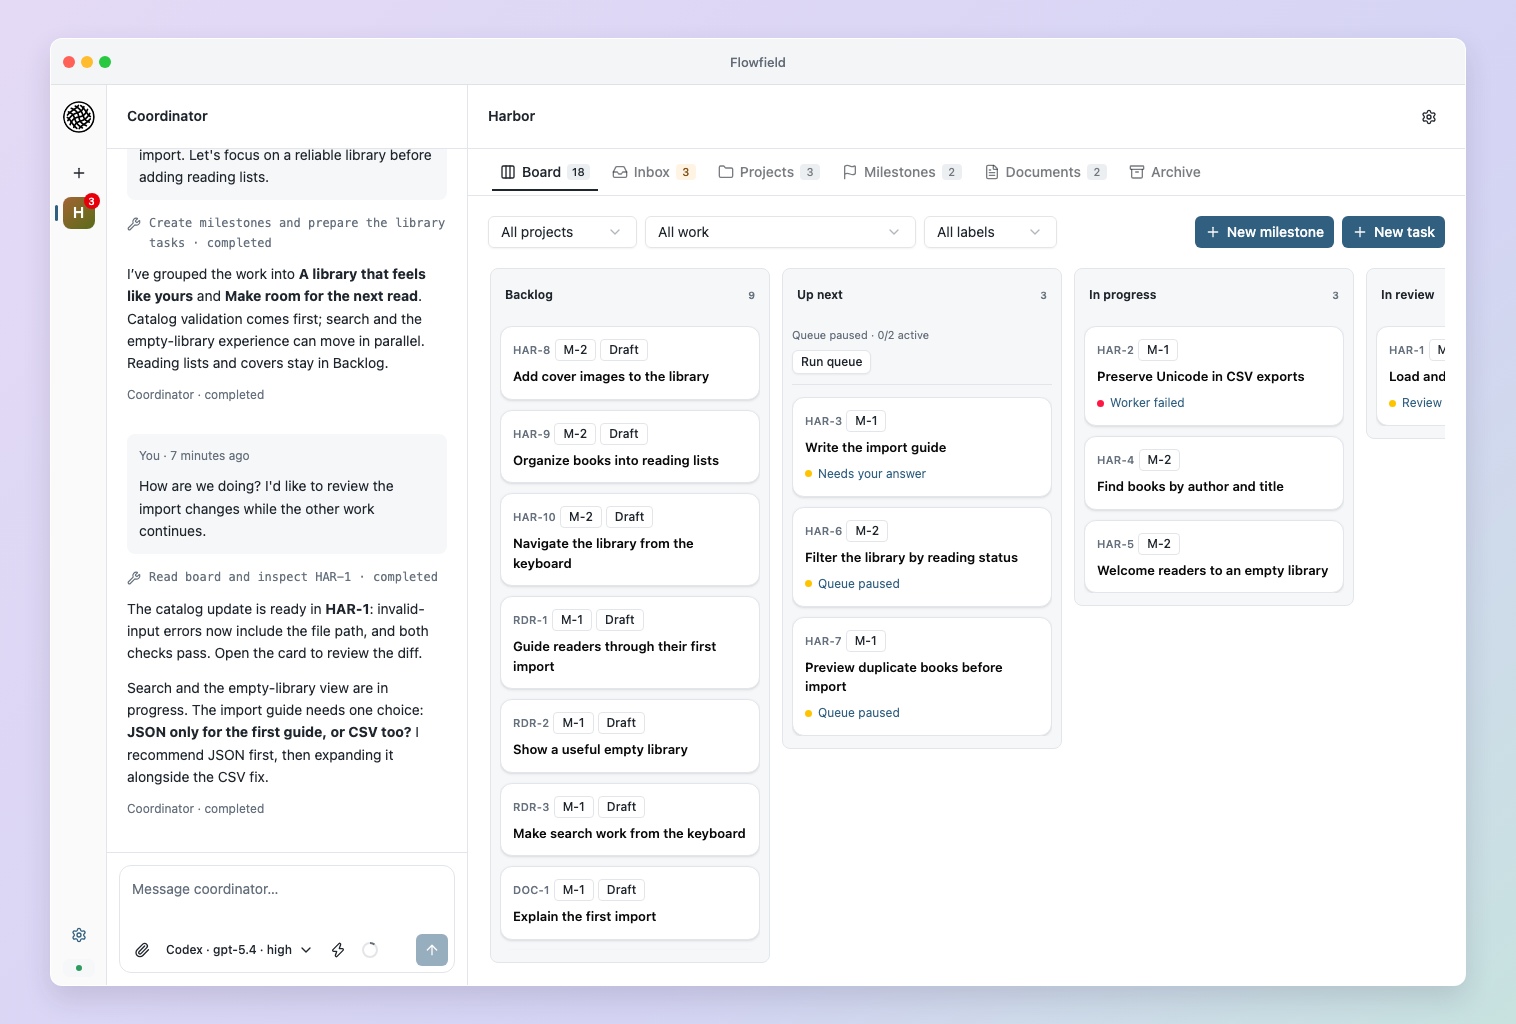
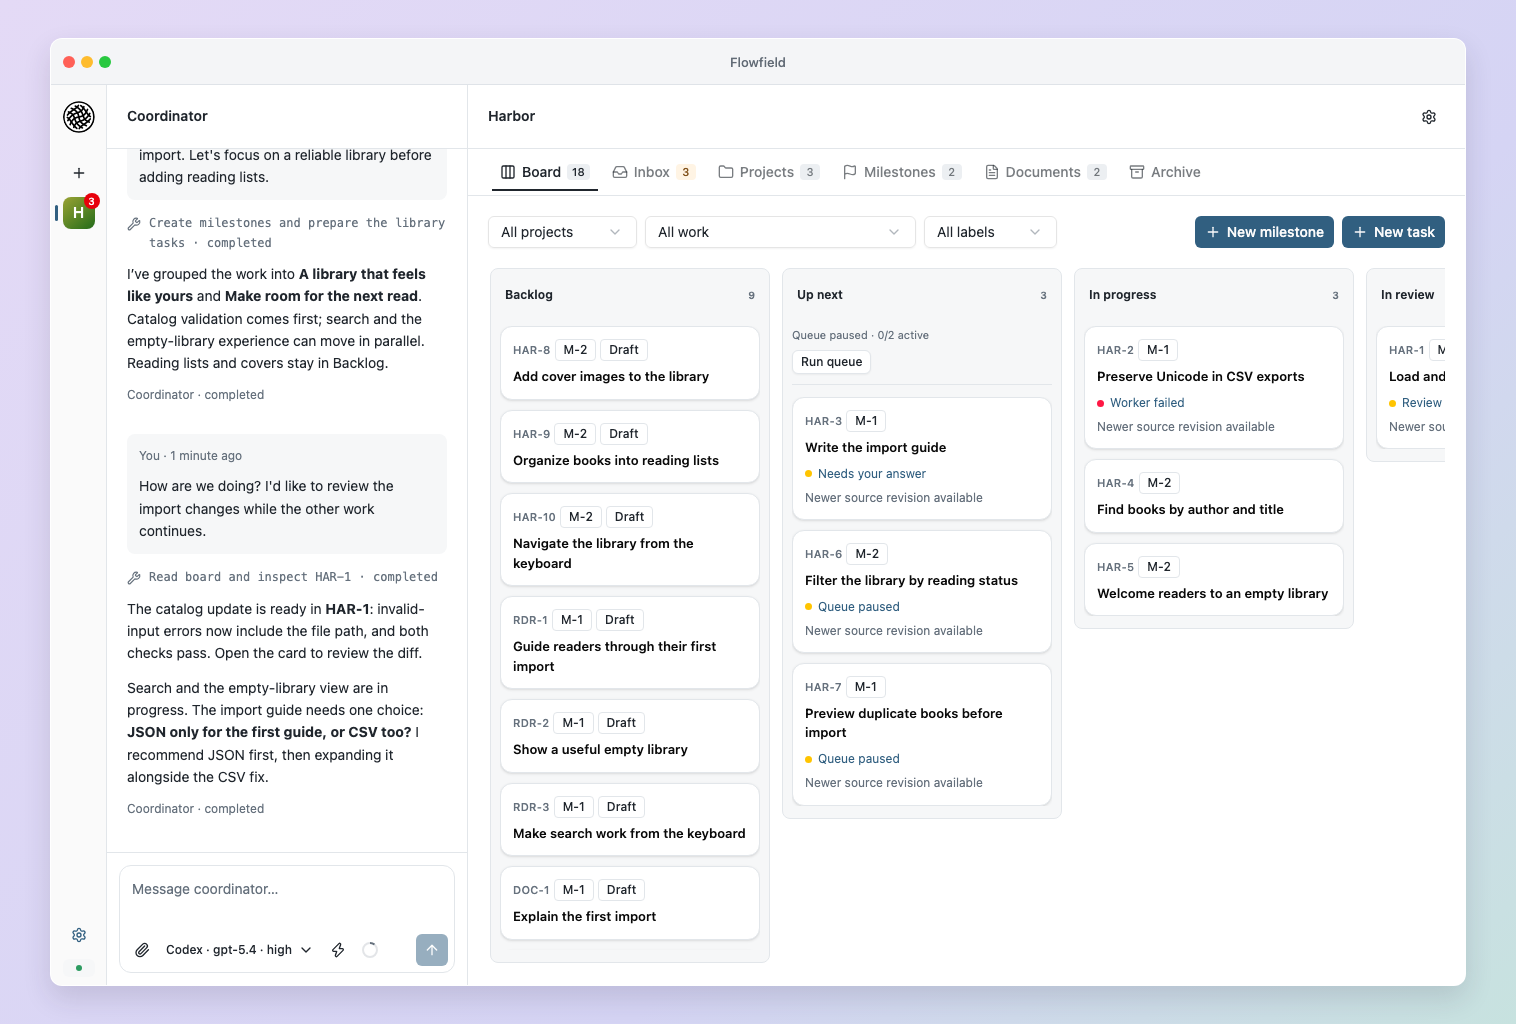
Fix workspace dependency status and mobile coordinator navigation

diff --git a/web/e2e/coordinator.spec.ts b/web/e2e/coordinator.spec.ts
@@ -1364,3 +1364,47 @@ test("abridged coordinator activity opens revision-bound saved reply pages", asy
     path: testInfo.outputPath("coordinator-full-reply.png"),
   });
 });
+
+test("project URL canonicalization preserves the selected mobile coordinator", async ({
+  page,
+  request,
+}) => {
+  await page.setViewportSize({ width: 390, height: 844 });
+  const directory = join(state, "chat-alias");
+  mkdirSync(directory, { recursive: true });
+  await fixtureProject(request, {
+    data: { path: directory, name: "Chat Alias", task_prefix: "CAL" },
+  });
+  const workspace = await projectWorkspace(request, "chat-alias");
+  let release!: () => void;
+  const board = new Promise<void>((resolve) => {
+    release = resolve;
+  });
+  await page.route(
+    `**/api/workspaces/${workspace}/view/board*`,
+    async (route) => {
+      await board;
+      await route.continue();
+    },
+  );
+  await page.goto("/projects/chat-alias");
+  await page.getByRole("tab", { name: "Coordinator", exact: true }).click();
+  await expect(
+    page.getByRole("tab", { name: "Coordinator", exact: true }),
+  ).toHaveAttribute("aria-selected", "true");
+  release();
+  await expect(page).toHaveURL(
+    new RegExp(`/workspaces/${workspace}\\?project=chat-alias$`),
+  );
+  await expect(
+    page.getByRole("tab", { name: "Coordinator", exact: true }),
+  ).toHaveAttribute("aria-selected", "true");
+  await page
+    .getByRole("textbox", { name: "Message coordinator", exact: true })
+    .fill("Keep this draft");
+  await page.getByRole("tab", { name: "Work", exact: true }).click();
+  await page.getByRole("tab", { name: "Coordinator", exact: true }).click();
+  await expect(
+    page.getByRole("textbox", { name: "Message coordinator", exact: true }),
+  ).toHaveValue("Keep this draft");
+});

diff --git a/web/e2e/workspace-dependencies.spec.ts b/web/e2e/workspace-dependencies.spec.ts
@@ -6,7 +6,7 @@ import { test, state, fixtureStages } from "./support";
 test("cross-project prerequisites link to their owner and refresh dependent views", async ({
   page,
   request,
-}) => {
+}, testInfo) => {
   const workspace = await (
     await request.post("/api/workspaces", {
       data: { name: "Shared dependencies" },
@@ -59,7 +59,14 @@ test("cross-project prerequisites link to their owner and refresh dependent view
   ).toBeVisible();
   await page.goBack();
   await expect(page).toHaveURL(/\/projects\/dependency-site\/tasks\/DPS-1$/);
-  await expect(task.getByText("Blocked by", { exact: false })).toBeVisible();
+  await expect(task.getByText("Waiting on", { exact: false })).toBeVisible();
+  await page.screenshot({
+    path: testInfo.outputPath("dependency-desktop.png"),
+  });
+  await page.setViewportSize({ width: 390, height: 844 });
+  await page.emulateMedia({ colorScheme: "dark" });
+  await expect(task.getByText("Waiting on", { exact: false })).toBeVisible();
+  await page.screenshot({ path: testInfo.outputPath("dependency-mobile.png") });
   const refreshed = page.waitForResponse(
     (response) =>
       response.request().method() === "GET" &&
@@ -74,5 +81,5 @@ test("cross-project prerequisites link to their owner and refresh dependent view
     ).ok(),
   ).toBeTruthy();
   await refreshed;
-  await expect(task.getByText("Blocked by", { exact: false })).toHaveCount(0);
+  await expect(task.getByText("Waiting on", { exact: false })).toHaveCount(0);
 });

diff --git a/web/src/App.tsx b/web/src/App.tsx
@@ -10,7 +10,7 @@ import { WorkspaceList, NewWorkspace } from "./WorkspaceEntry";
 import { Documents } from "./Documents";
 import { ProjectList } from "./ProjectList";
 import { SetupInstructions } from "./SetupInstructions";
-import { taskTab } from "./navigation";
+import { canonicalHref, taskTab } from "./navigation";
 import type { AdjacentContext, AdjacentSnapshot } from "./AdjacentView";
 import { CoordinatorChat, type ChatDrafts } from "./CoordinatorChat";
 import {
@@ -139,6 +139,14 @@ export function App() {
   );
   const workspaceId =
     params.workspaceId ?? knownOwners[projectId ?? ""] ?? projectWorkspace?.id;
+  // Resolving a project alias changes the URL, not the work the human opened.
+  // Use its known workspace before board loading registers all member projects.
+  const workLocation = canonicalHref(
+    pathname,
+    projectId && workspaceId
+      ? { ...knownOwners, [projectId]: workspaceId }
+      : knownOwners,
+  ).split("?")[0];
   const wrongWorkspace = !!(
     params.workspaceId &&
     projectWorkspace &&
@@ -250,7 +258,7 @@ export function App() {
       <AnnouncementProvider navigate={changeLocation}>
         <Toaster theme={appearance.theme} />
         <WorkspaceFrame
-          workLocation={pathname}
+          workLocation={workLocation}
           workspaces={workspaces.map((workspace) => ({
             id: workspace.id,
             name: workspace.name,

diff --git a/tests/test_workspace_dependencies.py b/tests/test_workspace_dependencies.py
@@ -36,6 +36,22 @@ def complete(store, project, identity):
     )
 
 
+@pytest.mark.parametrize("destination", ["core", "site"])
+def test_waiting_state_matches_workspace_prerequisites(tmp_path, destination):
+    store = shared(tmp_path)
+    first = store.create_task("core", task_request(title="First"))
+    second = store.create_task(destination, task_request(title="Then", dependencies=[first.key]))
+    for task in (
+        BrowserReads(store).task(destination, second.id),
+        next(t for t in BrowserReads(store).board(destination).tasks if t.id == second.id),
+    ):
+        assert task.state.label == "Waiting on prerequisites"
+        assert task.state.reason == "prerequisites"
+        assert task.blocked_by[0].key == first.key
+    complete(store, "core", first.id)
+    assert BrowserReads(store).task(destination, second.id).state.reason is None
+
+
 def test_same_local_ids_scope_cycles_pagination_and_downstream_reconciliation(tmp_path):
     store = shared(tmp_path)
     core = store.create_task("core", task_request(id="same", title="API", body="API contract"))

diff --git a/src/flowfield/coordinator.py b/src/flowfield/coordinator.py
@@ -102,7 +102,11 @@ whole specifications. Use concrete examples when they clarify tricky product beh
 manufacture an exhaustive implementation tutorial. Milestones group
 tasks; only tasks have dependencies. Respect repository-owned instructions and decisions;
 Flowfield does not replace the project’s architecture/design/convention records.
-Prepare assignments with create_task/edit_task when intent is clear. Prepared is not started.
+Prepare upcoming Backlog/Up next assignments with create_task/edit_task when intent is clear.
+For changed intent on work already in progress or review, once no worker owns the task,
+edit_task without preparation, include
+reviewed stages, then reconcile_task before requesting the follow-up through get_task_input and
+reply_to_task. An enabled queue can start that follow-up immediately. Prepared is not started.
 Prioritizing into Up next
 can make work eligible for an enabled queue: do this only when the human authorized scheduling.
 Use apply_answer to reconcile already saved coordinator-owned answers; managed worker answers

diff --git a/src/flowfield/mcp.py b/src/flowfield/mcp.py
@@ -742,7 +742,10 @@ def create_mcp(
 
         Include preparation for actionable upcoming work, using completion, to save and prepare
         atomically. Failure leaves prior intent
-        unchanged. Preserves priority/queue; active work requires reconciliation instead.
+        unchanged. Preparation applies only to Backlog/Up next. For work in progress or review,
+        once no worker owns the task, omit preparation, include reviewed stages, then reconcile_task
+        before requesting feedback continuation through get_task_input/reply_to_task.
+        Preserves priority/queue.
         Cross-project dependencies use task keys (for example API-1), not bare task IDs.
         Read get_task_stages and include stages (expected_revision, stages, reason) here
         to reconcile the plan with the new agreement atomically while idle.

diff --git a/src/flowfield/work_state.py b/src/flowfield/work_state.py
@@ -178,9 +178,16 @@ def task_state(
         return WorkState(label="Archived")
     if task["status"] == "done":
         return WorkState(label="Done", tone="complete")
+    # Schema 62 stores service-unique task keys, including foreign member projects.
+    # Older supported states still use project-local IDs during migration checks.
+    dependency_join = (
+        "d.key=p.value"
+        if workspace.schema_version >= 62
+        else "d.project_id=t.project_id AND d.id=p.value"
+    )
     if db.execute(
         "SELECT 1 FROM tasks t,json_each(t.data,'$.dependencies') p "
-        "JOIN tasks d ON d.project_id=t.project_id AND d.id=p.value "
+        f"JOIN tasks d ON {dependency_join} "
         "WHERE t.project_id=? AND t.id=? AND json_extract(d.data,'$.status')!='done'",
         (project, task_id),
     ).fetchone():

diff --git a/src/flowfield/templates/flowfield-coordinator/SKILL.md b/src/flowfield/templates/flowfield-coordinator/SKILL.md
@@ -131,10 +131,10 @@ Repository instructions govern development conventions and permission to commit/
   history out of worker assignments. Highlight critical constraints without copying specifications;
   use examples where they clarify product behavior, not as a mandatory implementation tutorial.
 - Read complete intent, prerequisites, task evidence and applicable repository guidance.
-  For actionable work, use create_task/edit_task with preparation so the description and assignment save together.
+  For upcoming Backlog/Up next work, use create_task/edit_task with preparation so the description and assignment save together.
   Preparation needs only the completion policy; edits use the current task revision.
   A failed prepared write saves neither change: reread and reconcile.
-- Prepare an existing task with `edit_task` and `preparation`, even when no definition
+- Prepare an existing Backlog/Up next task with `edit_task` and `preparation`, even when no definition
   fields change. “Prepared” does not mean scheduled or started. Do this routinely;
   do not ask the human to request preparation.
   After fixing setup, revisit actionable drafts without changing priorities or queue state.
@@ -189,8 +189,9 @@ Repository instructions govern development conventions and permission to commit/
 - Follow the result's contextual recovery action. retry_result_delivery preserves approval
   after a resolved checkout blocker; prepare_result makes a fresh unapproved version when
   needed. Corrections remain bounded and require fresh approval.
-- Keep feedback/corrections on the same task. If feedback changes intent, edit and reconcile
-  before requesting the follow-up: an enabled queue can launch it immediately. Complete the
+- Keep feedback/corrections on the same task. For changed intent on work in progress or review, once no worker owns the task,
+  use `edit_task` without preparation, include reviewed stages, then `reconcile_task` before
+  requesting the follow-up with `get_task_input` and `reply_to_task`: an enabled queue can launch it immediately. Complete the
   agreed outcome, not just an attempt. Partial work stays unfinished or has explicitly revised
   scope. Complete report-only findings need no code approval and do not endorse recommendations;
   even a Markdown repository file is a code-changing result, regardless of its labels.

diff --git a/src/flowfield/templates/mcp-instructions.md b/src/flowfield/templates/mcp-instructions.md
@@ -9,11 +9,16 @@ get_project_guidance previews the optional standalone coordinator playbook witho
 Batch at most eight independent reads and serialize mutations. On tool_busy, wait for
 in-flight calls to finish before retrying the rejected call.
 
-Select relevant project worker_documents defaults and task documents references. Preparation
-pins exact revisions; workers page those sources within their frozen assignment. Main guidance
-is a required default for every project. Reprepare with reviewed stages or reconcile deliberately to
-adopt later revisions; document edits alone leave existing assignments unchanged.
-Capture agreed work with create_task/edit_task. Preparation is not scheduling; respect
+Select relevant project worker_documents and task documents. Purpose is required (read fully)
+or reference (optional). Main guidance stays required. Preparation pins revisions and purposes;
+workers page frozen sources. After edits, page get_document_impact and assess affected work.
+Newer-source notices are informational; edits leave assignments unchanged.
+Capture agreed work with create_task/edit_task. Descriptions are resolved handoffs: outcome,
+constraints, exceptions, completion conditions and sources. Resolve conflicts first; omit queue
+instructions and conversation history. Preparation applies to Backlog/Up next. For changed intent
+on work in progress or review, once no worker owns it, edit without preparation, include reviewed
+stages, then reconcile_task before requesting the follow-up with get_task_input/reply_to_task.
+Preparation is not scheduling; respect
 priorities, queue pauses and explicit model authority. Follow returned pagination and read
 complete relevant intent. Read relevant older public chat with get_coordinator_history/get_coordinator_text;
 follow cursors and revision checks. Marked omissions are unavailable; old messages do not
